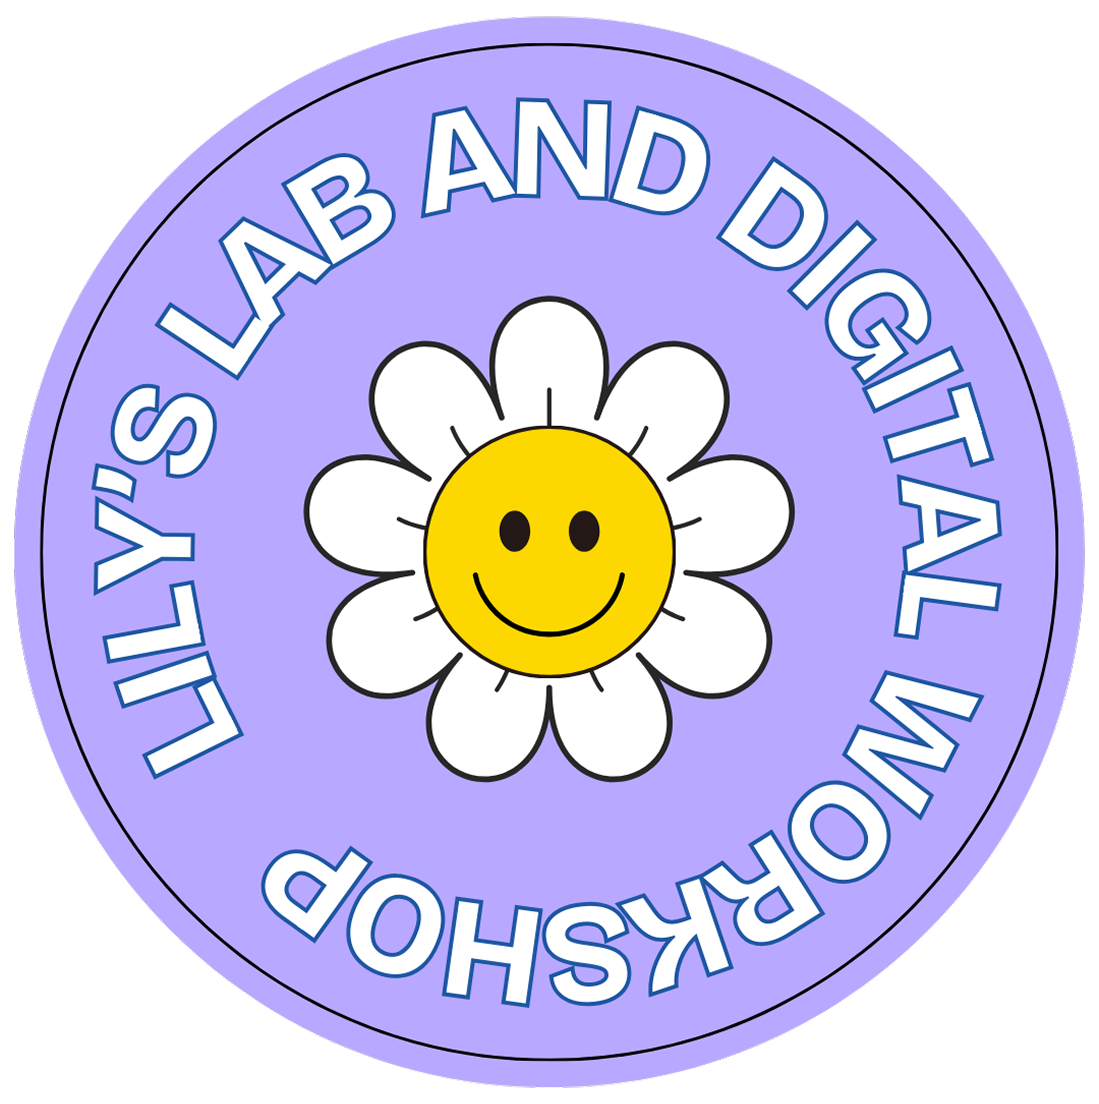
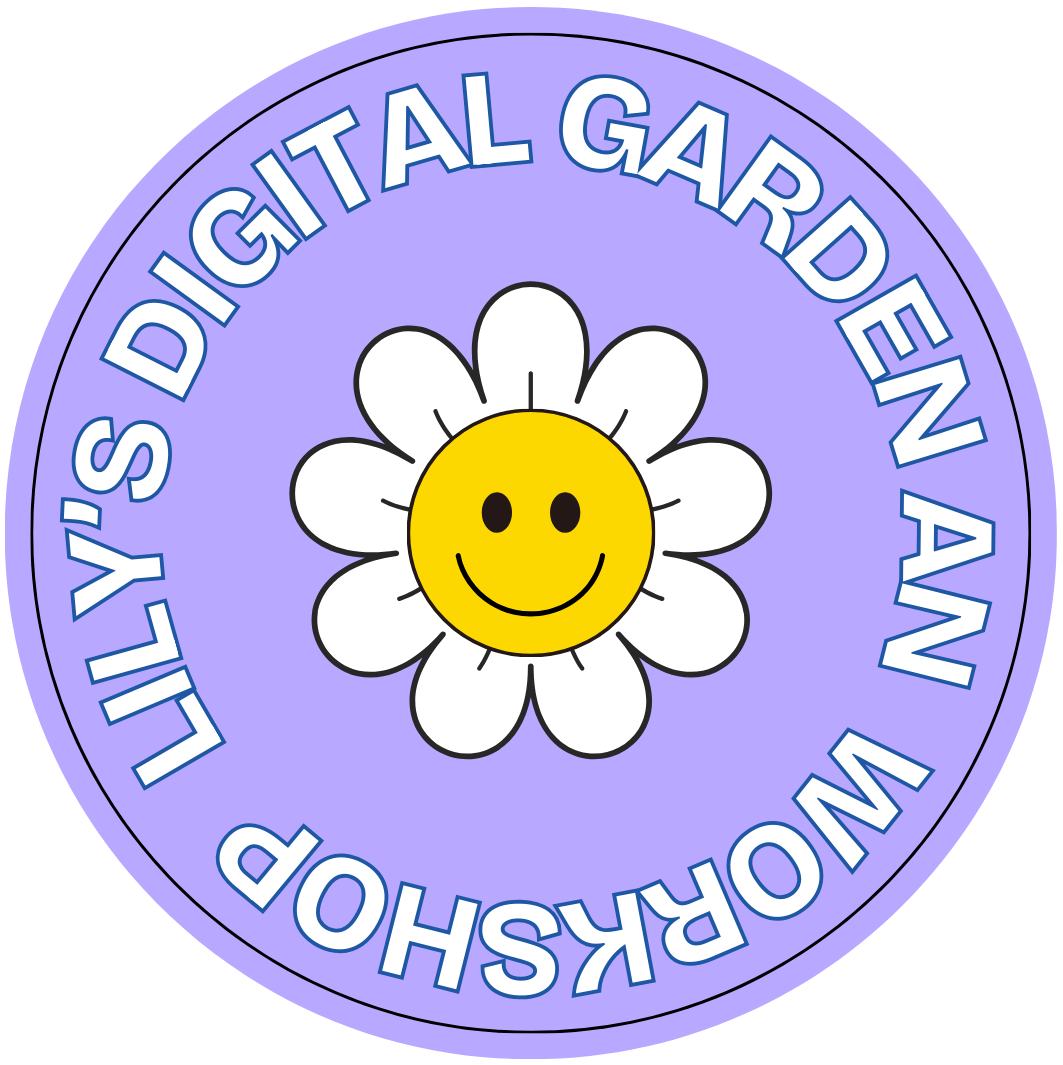
Feat: changed opengraph-image, added new posts

diff --git a/Content/notes/001.md b/Content/notes/001.md
@@ -7,14 +7,24 @@ image:
 publish: true
 --- 
 
-Today marks the beginning of my 20-day product building challenge! After leaving She Code Africa and a brief stint at a company that wasn't the right fit, I'm channeling my energy into creating while job hunting for Associate PM roles/ Engineering Manager roles and Project Management roles.
+## What is Lilyslab?
 
-After a hundred and twenty prompts using V0 and Cursor, I’ve finally launched LilysLab (lilyslab.xyz) - my digital workshop and tech lab where I'll showcase all 20 projects from this challenge. The dashboard features:
+Lilyslab is my personal space for growth, learning, and sharing. It's a mix of three main areas:
 
-• Project gallery with live demos
-• My building process documentation
-• Resources I've created along the way
-• Tech stack details for each build
+- **Digital Garden**: Where I grow and share my ideas, writings, notes, and bookmarks. It's not a formal blog, but a living collection of thoughts that grow over time.
+
+- **Workshop**: Where I show my projects (like logs and shop items), track my progress, and share my building process.
+
+- **Playground**: Where I build and test small web tools and apps like calculators and note widgets.
+
+## Why I Built It
+
+I needed a home for my thoughts and projects - a place where I could:
+
+- Project gallery with live demos
+- My building process documentation
+- Resources I've created along the way
+- Tech stack details for each build and a lot more
 
 Why start here? Every builder needs a workshop, and I wanted a centralized home for this journey. I built this using v0 and will be leveraging AI throughout this challenge to work smarter, not harder.
 

diff --git a/Content/writings/what-is-lilyslab.md b/Content/writings/what-is-lilyslab.md
@@ -1,0 +1,40 @@
+---
+author: Lilian
+cover:
+  - ""
+date: 2025-05-01
+excerpt: What this site is about.
+published: true
+slug: what-is-lilyslab
+tags:
+  - digital garden
+  - personal site
+title: "What is Lilyslab?"
+readingTime: 1
+wordCount: 205
+---
+
+#### What is Lilyslab?
+
+Lilyslab is my personal space for growth, learning, and sharing. It's a mix of three main areas:
+
+- **Digital Garden**: Where I grow and share my ideas, writings, notes, and bookmarks. It's not a formal blog, but a living collection of thoughts that grow over time.
+
+- **Workshop**: Where I show my projects (like logs and shop items), track my progress, and share my building process.
+
+- **Playground**: Where I build and test small web tools and apps like calculators and note widgets.
+
+#### Why I Built It
+
+I needed a home for my thoughts and projects - a place where I could:
+
+- Link related ideas together (like my articles on digital gardens, rabbit holes, and tab management)
+- Show my work in an easy-to-browse way
+- Test new coding ideas
+- Share what I learn with others
+
+#### How It Works
+
+The site is built with Next.js, Tailwind CSS, and MDX files for content. I've designed it to be simple to use, fast to load, and easy to update. Everything is stored as plain text files, which makes adding new content quick and easy.
+
+Explore the different sections to see my growing collection of projects, writings, and web experiments!
